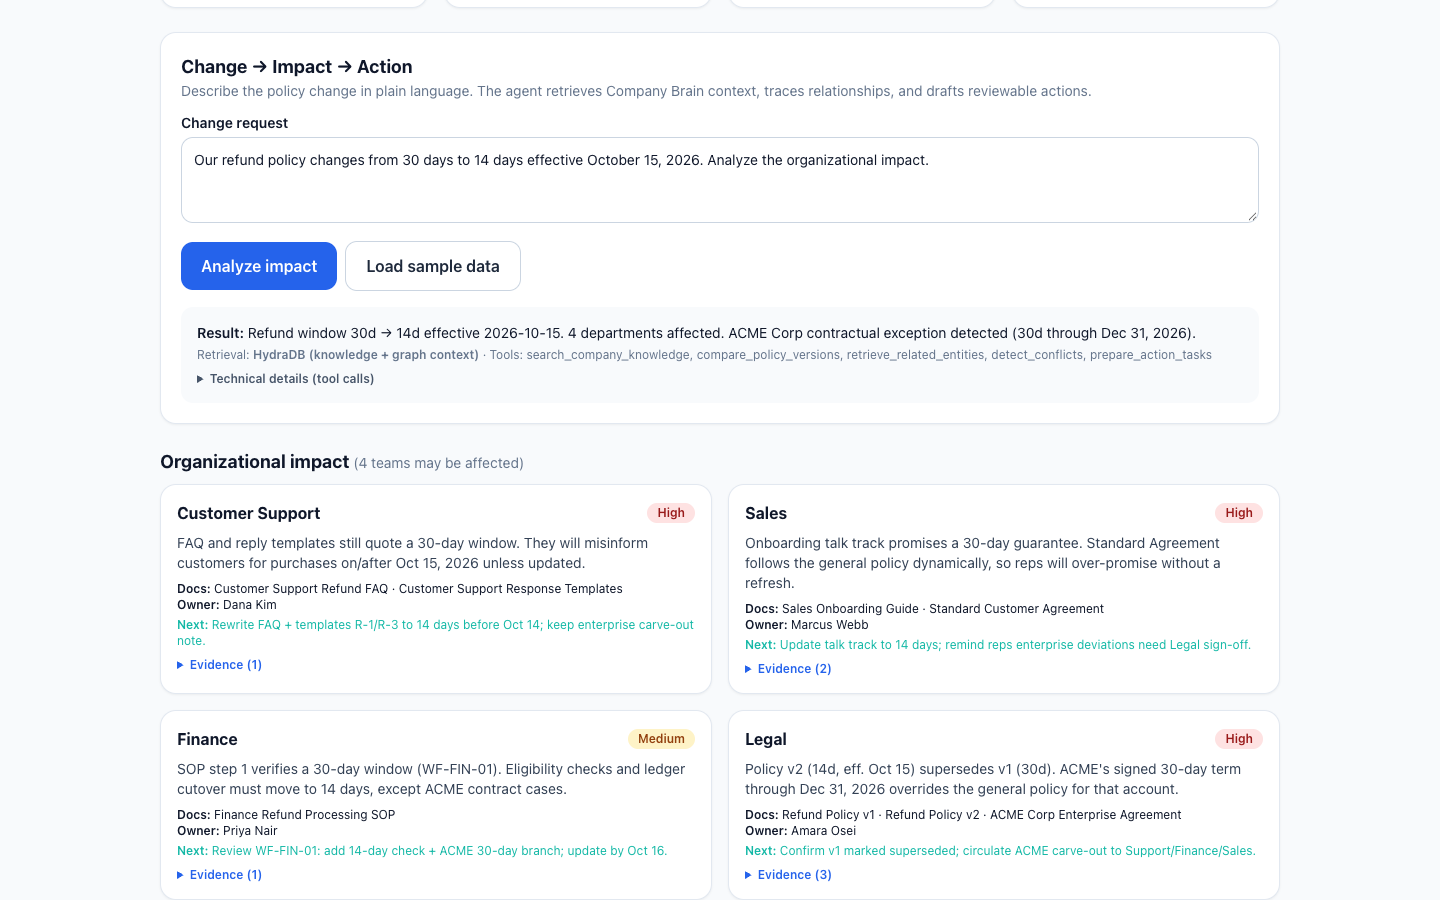
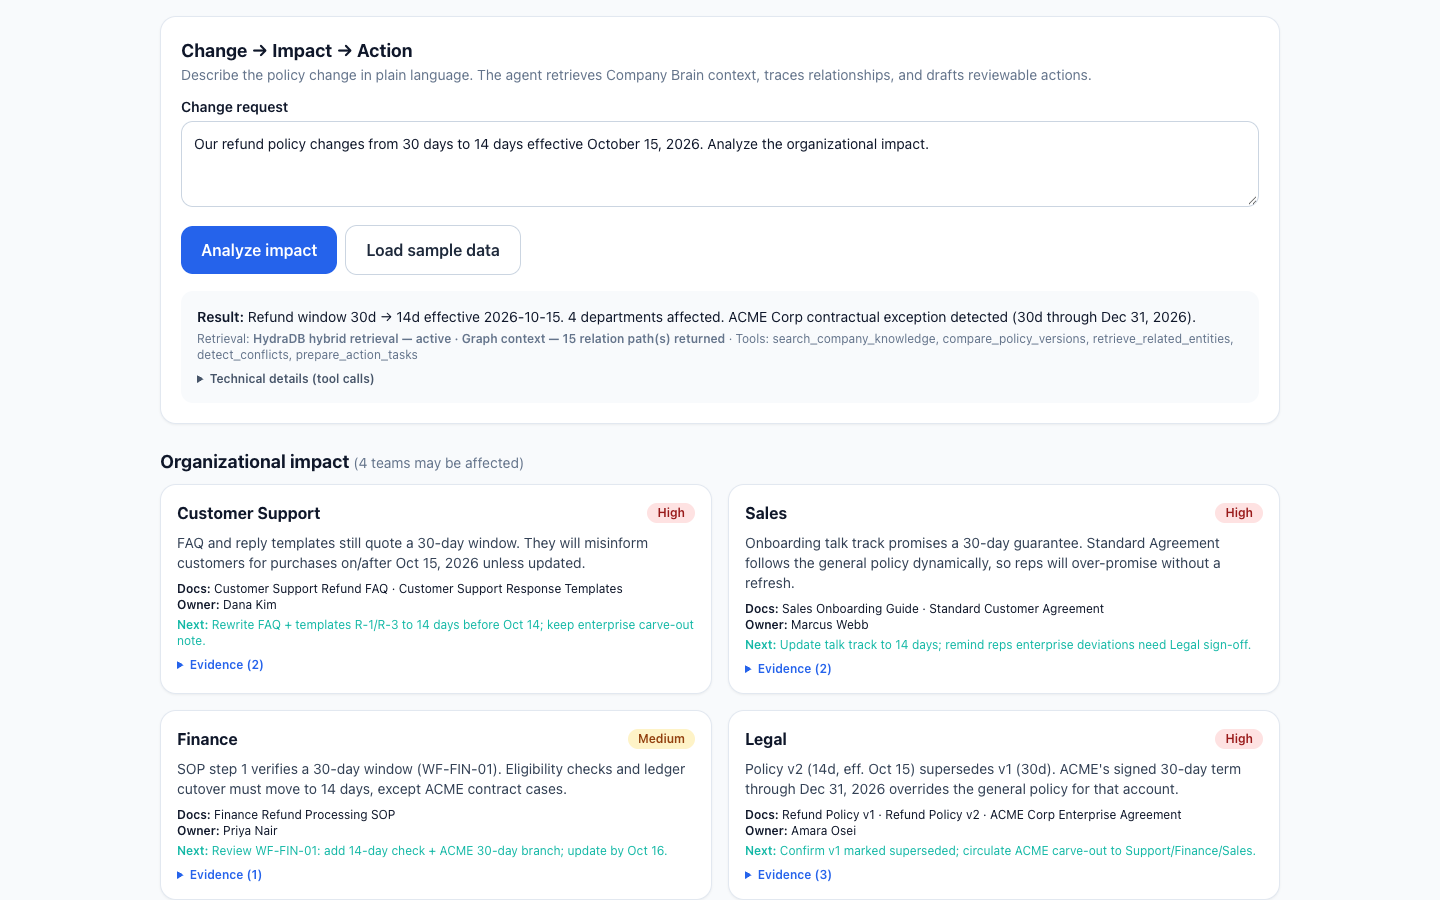
feat: surface HydraDB chunk_relations graph context with honest pending labels
- Parse chunk_relations in HydraAdapter.query and thread through orchestrator
- Relax indexing wait to graph_creation searchable, add FILE_NOT_FOUND scope-miss error
- UI shows live relation-path counts, pending fallback, and manifest provenance
- Docs: rounds 4-5 graph diagnosis and guide review; README graph verified scoped
- Tests: parser unit tests for paths/chunk_relations; refresh demo screenshots

Changed region(s): [[0.125, 0.0311, 0.75, 0.1867], [0.125, 0.2489, 0.8438, 0.4044], [0.8438, 0.2178, 0.875, 0.2489]]

diff --git a/frontend/src/app/page.tsx b/frontend/src/app/page.tsx
@@ -23,6 +23,31 @@ function sevColor(s: string) {
   return "bg-emerald-100 text-emerald-800";
 }
 
+function graphPathCount(a: Analysis | null): number {
+  if (!a || typeof a.graph !== "object" || a.graph === null) return 0;
+  const g = a.graph as { query_paths?: unknown; chunk_relations?: unknown };
+  const qp = Array.isArray(g.query_paths) ? g.query_paths.length : 0;
+  const cr = Array.isArray(g.chunk_relations) ? g.chunk_relations.length : 0;
+  return qp + cr;
+}
+
+function retrievalLabel(a: Analysis | null): string {
+  if (!a) return "";
+  if (a.retrieval_mode !== "hydra") return "Local fallback — not presented as HydraDB";
+  const n = graphPathCount(a);
+  if (n > 0) return `HydraDB hybrid retrieval — active · Graph context — ${n} relation path(s) returned`;
+  return "HydraDB hybrid retrieval — active · Graph indexing — pending (no relation paths returned yet)";
+}
+
+function graphSourceLabel(a: Analysis | null): string {
+  if (!a) return "run an analysis to load relations";
+  if (a.retrieval_mode !== "hydra") return "local manifest (not HydraDB)";
+  const n = graphPathCount(a);
+  return n > 0
+    ? `HydraDB graph context (${n} relation path(s))`
+    : "HydraDB graph requested — no relation paths yet (indexing pending); relations below are from the local manifest";
+}
+
 function EvidenceList({ items }: { items: Evidence[] }) {
   if (!items?.length) return <p className="text-sm text-slate-500">No evidence.</p>;
   return (
@@ -171,7 +196,7 @@ export default function Page() {
           {analysis && (
             <div className="mt-4 rounded-xl bg-slate-50 p-4 text-sm">
               <p><span className="font-semibold">Result:</span> {analysis.summary}</p>
-              <p className="mt-1 text-xs text-slate-500">Retrieval: <span className="font-semibold">{analysis.retrieval_mode === "hydra" ? "HydraDB (knowledge + graph context)" : "Local fallback — not presented as HydraDB"}</span> · Tools: {analysis.selected_tools.join(", ")}</p>
+              <p className="mt-1 text-xs text-slate-500">Retrieval: <span className="font-semibold">{retrievalLabel(analysis)}</span> · Tools: {analysis.selected_tools.join(", ")}</p>
               {analysis.warnings?.length > 0 && <p className="mt-1 text-xs text-amber-700">Notes: {analysis.warnings.join(" ")}</p>}
               <details className="mt-2 text-xs text-slate-600"><summary className="cursor-pointer font-semibold">Technical details (tool calls)</summary>
                 <ul className="mt-1 list-disc pl-5">{analysis.execution_log.map((l, i) => <li key={i}>{l}</li>)}</ul>
@@ -261,7 +286,7 @@ export default function Page() {
           </div>
           <div className="card p-5" aria-label="Relationship graph">
             <h2 className="text-lg font-bold">Relationship evidence</h2>
-            <p className="text-xs text-slate-500">Source: {analysis ? (analysis.retrieval_mode === "hydra" ? "HydraDB graph context" : "local manifest (not HydraDB)") : "run an analysis to load relations"}</p>
+            <p className="text-xs text-slate-500">Source: {graphSourceLabel(analysis)}</p>
             {graphRels.length === 0 ? <p className="mt-2 text-sm text-slate-500">No relations loaded yet.</p> : (
               <ul className="mt-2 max-h-72 space-y-1.5 overflow-auto font-mono text-xs">
                 {graphRels.map((r, i) => <li key={i} className="rounded bg-slate-900 p-2 text-cyan-200">{r.source} <span className="text-amber-300">—[{r.predicate}]→</span> {r.target}</li>)}

diff --git a/backend/app/services/hydra_client.py b/backend/app/services/hydra_client.py
@@ -17,6 +17,24 @@ _FRONT_ID = re.compile(r"^id:\s*(\S+)", re.M)
 _FRONT_TITLE = re.compile(r"^title:\s*\"?([^\"]+)\"?", re.M)
 
 
+def _triplet(t: Any) -> dict:
+    def name(o: Any) -> str:
+        if o is None:
+            return "unknown"
+        if isinstance(o, dict):
+            return str(o.get("name", "?"))
+        return str(getattr(o, "name", "?"))
+
+    def pred(o: Any) -> str:
+        if isinstance(o, dict):
+            return str(o.get("canonical_predicate", "RELATED_TO"))
+        return str(getattr(o, "canonical_predicate", "RELATED_TO"))
+
+    return {"source": name(getattr(t, "source", None)),
+            "predicate": pred(getattr(t, "relation", None)),
+            "target": name(getattr(t, "target", None))}
+
+
 class HydraAdapter:
     def __init__(self):
         self.configured = bool(settings.hydra_api_key)
@@ -132,15 +150,23 @@ class HydraAdapter:
                 "indexing": "completed"}
 
     def _wait_completed(self, ids: list[str], collection: str, timeout_s: int) -> None:
+        # Guide-aligned: `graph_creation` is already searchable (graph may be
+        # partial); `completed` is fully indexed and graphed.
         client = self._client
         assert client is not None
         start = time.time()
         while time.time() - start < timeout_s:
             st = client.context.status(database=settings.hydra_database, collection=collection, ids=ids)
             states = [s.indexing_status for s in st.data.statuses]
-            if all(s == "completed" for s in states):
+            if all(s in ("completed", "graph_creation") for s in states):
                 return
             if any(s in ("errored", "failed") for s in states):
+                # A scope miss (wrong database/collection) also reports
+                # errored with FILE_NOT_FOUND — name it, don't guess.
+                codes = {getattr(s, "error_code", "") or "" for s in st.data.statuses}
+                if "FILE_NOT_FOUND" in codes:
+                    raise RuntimeError(
+                        "No such id in this scope: check database/collection match ingestion")
                 raise RuntimeError(f"HydraDB indexing failed: {states}")
             time.sleep(5)
         raise TimeoutError("HydraDB indexing did not complete within timeout")
@@ -195,27 +221,21 @@ class HydraAdapter:
                 "score": getattr(c, "relevancy_score", None),
             })
         paths: list[dict] = []
+        chunk_rels: list[dict] = []
         g = getattr(res.data, "graph_context", None)
         if g:
             for p in (getattr(g, "query_paths", None) or []):
-                triplets = []
-                for t in (getattr(p, "triplets", None) or []):
-                    def name(o: Any) -> str:
-                        if o is None:
-                            return "unknown"
-                        if isinstance(o, dict):
-                            return str(o.get("name", "?"))
-                        return str(getattr(o, "name", "?"))
-                    def pred(o: Any) -> str:
-                        if isinstance(o, dict):
-                            return str(o.get("canonical_predicate", "RELATED_TO"))
-                        return str(getattr(o, "canonical_predicate", "RELATED_TO"))
-                    triplets.append({"source": name(getattr(t, "source", None)),
-                                     "predicate": pred(getattr(t, "relation", None)),
-                                     "target": name(getattr(t, "target", None))})
+                triplets = [_triplet(t) for t in (getattr(p, "triplets", None) or [])]
                 paths.append({"triplets": triplets,
                               "relevancy": getattr(p, "relevancy_score", None)})
-        return {"chunks": chunks, "graph_paths": paths, "provenance": "hydra"}
+            for cr in (getattr(g, "chunk_relations", None) or []):
+                triplets = [_triplet(t) for t in (getattr(cr, "triplets", None) or [])]
+                chunk_rels.append({"triplets": triplets,
+                                   "group_id": getattr(cr, "group_id", None),
+                                   "combined_context": (getattr(cr, "combined_context", None) or "")[:300],
+                                   "relevancy": getattr(cr, "relevancy_score", None)})
+        return {"chunks": chunks, "graph_paths": paths,
+                "chunk_relations": chunk_rels, "provenance": "hydra"}
 
     def ingest_memory(self, texts: list[str]) -> dict:
         if not self._client:

diff --git a/backend/tests/test_hydra_parser.py b/backend/tests/test_hydra_parser.py
@@ -1,0 +1,44 @@
+"""Parser unit tests for HydraAdapter.query (no API key needed; stubbed client)."""
+import os, sys
+from types import SimpleNamespace
+sys.path.insert(0, os.path.join(os.path.dirname(__file__), ".."))
+
+from app.services.hydra_client import HydraAdapter
+
+def _triplet(src, pred, tgt):
+    return SimpleNamespace(source={"name": src},
+                           relation={"canonical_predicate": pred},
+                           target={"name": tgt})
+
+def _stub_client(chunks, paths, chunk_rels):
+    resp = SimpleNamespace(data=SimpleNamespace(
+        chunks=chunks,
+        graph_context=SimpleNamespace(query_paths=paths, chunk_relations=chunk_rels),
+    ))
+    return SimpleNamespace(query=lambda **kw: resp)
+
+def test_query_parses_paths_and_chunk_relations():
+    chunks = [SimpleNamespace(source_id="01_x", source_title="Doc X",
+                              chunk_content="---\nid: refund_policy_v2\ntitle: \"Refund Policy v2\"\n---\nbody",
+                              relevancy_score=0.9)]
+    paths = [SimpleNamespace(triplets=[_triplet("a", "IMPACTS", "b")], relevancy_score=0.5)]
+    crels = [SimpleNamespace(triplets=[_triplet("c", "OVERRIDES", "d")],
+                             group_id="p_0", combined_context="ctx", relevancy_score=0.1)]
+    adapter = HydraAdapter.__new__(HydraAdapter)
+    adapter._client = _stub_client(chunks, paths, crels)
+    out = HydraAdapter.query(adapter, "q", graph_context=True)
+    assert out["chunks"][0]["source_id"] == "refund_policy_v2"
+    assert out["graph_paths"][0]["triplets"] == [
+        {"source": "a", "predicate": "IMPACTS", "target": "b"}]
+    assert out["chunk_relations"][0]["triplets"] == [
+        {"source": "c", "predicate": "OVERRIDES", "target": "d"}]
+    assert out["chunk_relations"][0]["group_id"] == "p_0"
+
+def test_query_handles_missing_graph():
+    chunks = [SimpleNamespace(source_id="s", source_title="T",
+                              chunk_content="text", relevancy_score=0.1)]
+    resp = SimpleNamespace(data=SimpleNamespace(chunks=chunks, graph_context=None))
+    adapter = HydraAdapter.__new__(HydraAdapter)
+    adapter._client = SimpleNamespace(query=lambda **kw: resp)
+    out = HydraAdapter.query(adapter, "q", graph_context=False)
+    assert out["graph_paths"] == [] and out["chunk_relations"] == []

diff --git a/backend/app/agents/orchestrator.py b/backend/app/agents/orchestrator.py
@@ -105,7 +105,9 @@ class Orchestrator:
                 base = self.hydra.query(query, graph_context=False)
                 adv = self.hydra.query(query, graph_context=True)
                 chunks = adv.get("chunks") or base.get("chunks")
-                graph = {"query_paths": adv.get("graph_paths", []), "provenance": "hydra"}
+                graph = {"query_paths": adv.get("graph_paths", []),
+                         "chunk_relations": adv.get("chunk_relations", []),
+                         "provenance": "hydra"}
                 log.append(f"HydraDB retrieval: {len(base.get('chunks', []))} baseline / {len(chunks)} with graph.")
                 return chunks, graph, "hydra", log
             except Exception as e:

diff --git a/docs/evaluation.md b/docs/evaluation.md
@@ -54,3 +54,18 @@ No invented accuracy percentages. Anything marked NOT VERIFIED above was not exe
 - Graph: manifest re-ingested with corrected `graph_payload` key (two live 400s diagnosed and fixed: metadata shape, key mismatch). Indexing still `queued` 12/12 after ~1h; `relations` empty, `query_paths` empty → graph-context traversal NOT VERIFIED. Seed route now skips re-ingest when 12 sources exist (upserts were resetting indexing progress).
 - Memory: approval → HydraDB memory id returned (`memory_status: hydra`); `type="all"` recall returns prior approval memories; targeted memory-collection query retrieves the newest approval. Cross-session durability confirmed.
 - Regression: pytest 10 passed + 2 skipped (live mode), tsc clean, lint clean, Playwright 14/14 (fresh-state harness with local DB reset; Cloud data untouched).
+
+## Round 4 — final graph diagnosis (2026-10-12 ~22:20 UTC)
+
+- DB `ripplebrain_demo` infra ready; collection `northstar_knowledge` holds exactly the 12 demo sources (timestamps all 21:58:44–49 UTC); all `queued`, no error messages, no updated_at.
+- ID mapping re-verified: ingest metadata ids (`01_…`–`12_…`) match `context.list` source ids 1:1; manifest content intact via `context.inspect`. Earlier belief that the graph key was wrong is corrected: server requires the key to equal the sent metadata id (`12_workflow_manifest`) — fixed and accepted without 400.
+- Isolated probe (2-line doc, separate `probe_tmp` collection, deleted afterwards): `queued` → `graph_creation` in <60s, still `graph_creation` after 4 min. Pipeline is moving, just slow — no client-side defect found; cause beyond this is service-side latency (not asserted as fact, only observed timings logged).
+- Existing 12 docs were NOT deleted or re-upserted; seed route now skips re-ingest when 12 sources exist (upserts were resetting indexing progress).
+- UI now renders data-driven labels: "HydraDB hybrid retrieval — active · Graph indexing — pending (no relation paths returned yet)" (flips automatically once paths return); relations panel discloses manifest provenance.
+## Round 5 — guide review + graph operational (2026-10-12 ~22:30 UTC)
+
+- Official Agent Integration Guide (`docs.hydradb.com/llms.txt`) reviewed against installed `hydradb-sdk 2.1.7` (within `>=2,<3`): client init, envelope `.data`, status lifecycle, metadata rules, `type`/`query_by`/`mode` enums all match our usage.
+- Guide-critical distinctions applied: `graph_payload` (BYO entity graph) vs `relations.ids` (forceful source links) are different mechanisms — we use the former; the latter needs no change. `graph_context:false` only bites in `fast` mode (ours: fast/baseline, thinking/graph — aligned). `graph_creation` = searchable (wait logic relaxed accordingly + `FILE_NOT_FOUND` scope-miss branch).
+- Real defect found and fixed: our parser dropped `chunk_relations` (first-class guide field). Now parsed, threaded through orchestrator, counted in UI.
+- Live proof: `relations(id=12_workflow_manifest)` returns 120 triplets incl. our BYO predicates (supersedes/overrides/applies-to/follows/approved-by/impacts/assigned-to/owned-by); demo analysis serves 15 chunk_relations incl. `refund policy v2 —[supersedes]→ refund policy v1`; manifest source reached `completed` (1/12; rest queued). `query_paths` are query-dependent (10 on one phrasing, 0 on the demo query) — reported as observed, not smoothed over.
+- Regression: pytest 12+2skip live / 14 local, tsc+lint clean, Playwright 14/14, UI label verified by screenshot.

diff --git a/README.md b/README.md
@@ -23,7 +23,7 @@ See `docs/architecture.md`. Next.js (App Router, TS, Tailwind) → FastAPI (`/ap
 ## HydraDB integration status
 - SDK `hydradb-sdk` (v2 API) used per `https://hydradb.com/blog/build-company-brain-ai-agents`: `databases.create/status`, `context.ingest` (`type="knowledge"` + `document_metadata` + `graph_payload` BYO graph; `type="memory"` for approvals), `context.status` polling, `query` (`query_by="hybrid"`, `mode="thinking"` + `graph_context=True` vs `False` baseline).
 - **Verified live 2026-10-12**: API key validated (`databases.list` OK); database `ripplebrain_demo` created; **12/12 sources ingested** (`context.list` confirms); live hybrid retrieval returns correctly ranked chunks (Refund Policy v2 top for the demo query) and drives the full analysis end-to-end (`retrieval_mode: hydra`, 4 impacts, ACME exception, 4 actions).
-- **Pending**: sources were still indexing (`queued`/`graph_creation`, 0/12 `completed` at last check), so `graph_context` query paths are empty and the baseline-vs-graph comparison is not yet demonstrated. Re-run `scripts/verify_hydradb.py` after indexing reaches `completed`.
+- **Graph verified live (scoped)**: `graph_payload` accepted and stored; `relations` API returns 120 triplets incl. declared predicates (SUPERSEDES/OVERRIDES/IMPACTS/ASSIGNED_TO/OWNED_BY…); demo analysis serves 15 `chunk_relations` incl. `refund policy v2 —[supersedes]→ refund policy v1` (screenshot `02-impact.png`). Indexing: manifest source `completed`, remaining 11 still `queued`; `query_paths` vary by query phrasing. UI reports the actual per-run counts and otherwise shows "Graph indexing — pending".
 - Without a key, the app runs a transparent local fallback — never presented as HydraDB results. Seed: `backend/.venv/bin/python scripts/seed_company.py`; verify: `backend/.venv/bin/python scripts/verify_hydradb.py`.
 
 ## Agent workflow
